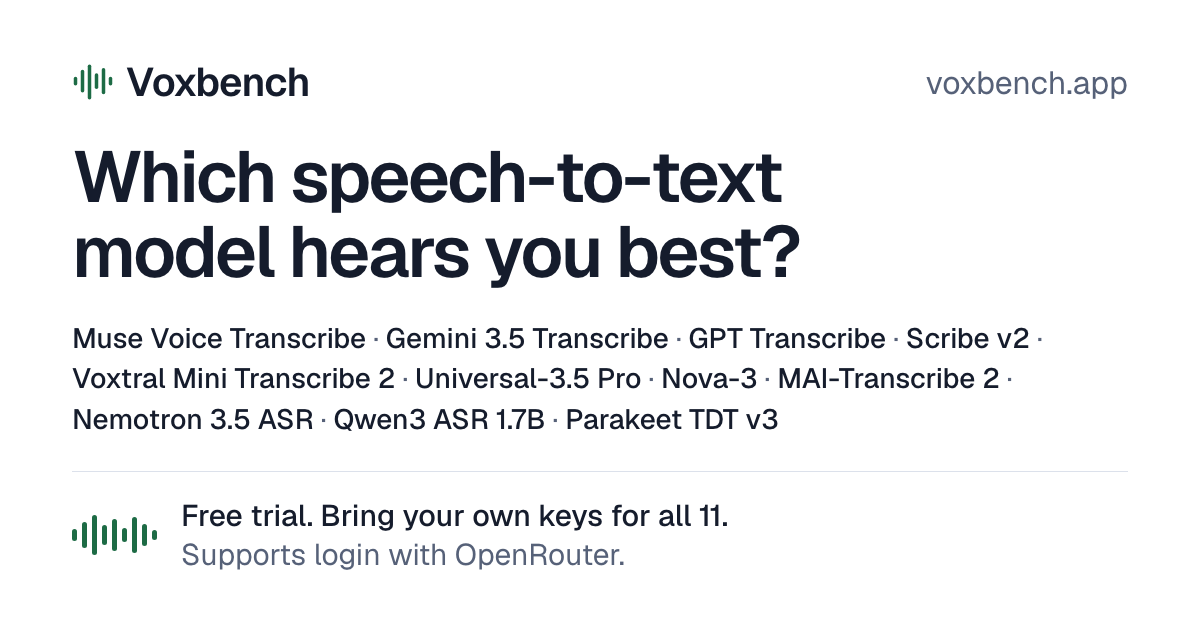
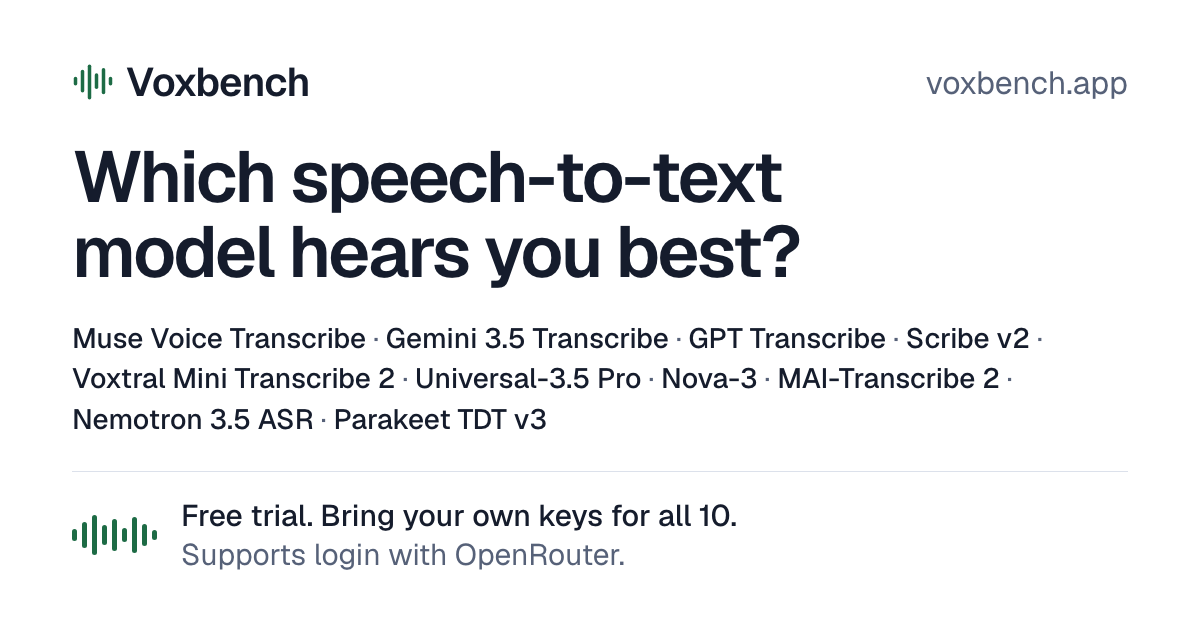
Remove Qwen; remember selected models and language settings

Changed region(s): [[0.2775, 0.6333, 0.6475, 0.6937], [0.5858, 0.7841, 0.6167, 0.8444]]

diff --git a/app/page.tsx b/app/page.tsx
@@ -24,6 +24,8 @@ import {
   mergeSavedKeys,
   VOCABULARY_STORAGE,
   saveVocabulary,
+  readSettings,
+  writeSettings,
 } from '@/lib/key-storage';
 import { DemoCheck } from '@/components/lab/demo-check';
 import { OpenRouterConnect } from '@/components/lab/openrouter-connect';
@@ -142,6 +144,21 @@ export default function Home() {
     [useVocabulary, setUseVocabulary] = useState(true),
     [english, setEnglish] = useState(true),
     [reference, setReference] = useState('');
+  const [settingsLoaded, setSettingsLoaded] = useState(false);
+  useEffect(() => {
+    const saved = readSettings(localStorage);
+    const known = new Set(models.map((m) => m.id));
+    if (saved.selected)
+      setSelected(saved.selected.filter((id) => known.has(id)));
+    if (saved.english !== undefined) setEnglish(saved.english);
+    if (saved.useVocabulary !== undefined)
+      setUseVocabulary(saved.useVocabulary);
+    setSettingsLoaded(true);
+  }, []);
+  useEffect(() => {
+    if (settingsLoaded)
+      writeSettings(localStorage, { selected, english, useVocabulary });
+  }, [settingsLoaded, selected, english, useVocabulary]);
   const [vocabularyStorageError, setVocabularyStorageError] = useState('');
   const [vocabularySaved, setVocabularySaved] = useState(false);
   useEffect(() => {
@@ -737,7 +754,7 @@ export default function Home() {
         <div>
           <h1>Which speech-to-text model hears you best?</h1>
           <p>
-            Record a take, read 11 transcripts side by side, and pick the one
+            Record a take, read 10 transcripts side by side, and pick the one
             that got you right. Free trial, your own keys, or log in with
             OpenRouter.
           </p>

diff --git a/scripts/og.html b/scripts/og.html
@@ -34,13 +34,13 @@
   </div>
   <h1>Which speech-to-text model hears you best?</h1>
   <p class="models">
-    <b>Muse Voice Transcribe</b> · <b>Gemini 3.5 Transcribe</b> · <b>GPT Transcribe</b> · <b>Scribe v2</b> · <b>Voxtral Mini Transcribe 2</b> · <b>Universal-3.5 Pro</b> · <b>Nova-3</b> · <b>MAI-Transcribe 2</b> · <b>Nemotron 3.5 ASR</b> · <b>Qwen3 ASR 1.7B</b> · <b>Parakeet TDT v3</b>
+    <b>Muse Voice Transcribe</b> · <b>Gemini 3.5 Transcribe</b> · <b>GPT Transcribe</b> · <b>Scribe v2</b> · <b>Voxtral Mini Transcribe 2</b> · <b>Universal-3.5 Pro</b> · <b>Nova-3</b> · <b>MAI-Transcribe 2</b> · <b>Nemotron 3.5 ASR</b> · <b>Parakeet TDT v3</b>
   </p>
   <div class="bottom">
     <div class="wave">
       <i style="height:12px"></i><i style="height:26px"></i><i style="height:40px"></i><i style="height:20px"></i><i style="height:32px"></i><i style="height:14px"></i><i style="height:36px"></i><i style="height:22px"></i><i style="height:10px"></i>
     </div>
-    <div class="tag">Free trial. Bring your own keys for all 11.<br><span>Supports login with OpenRouter.</span></div>
+    <div class="tag">Free trial. Bring your own keys for all 10.<br><span>Supports login with OpenRouter.</span></div>
   </div>
 </div>
 </body>

diff --git a/lib/key-storage.ts b/lib/key-storage.ts
@@ -58,3 +58,38 @@ export function saveVocabulary(
   if (storage.getItem(VOCABULARY_STORAGE) !== value)
     throw new Error('Storage verification failed.');
 }
+export const SETTINGS_STORAGE = 'voxbench-settings-v1';
+export type Settings = {
+  selected?: string[];
+  english?: boolean;
+  useVocabulary?: boolean;
+};
+export function readSettings(storage: Pick<Storage, 'getItem'>): Settings {
+  try {
+    const raw = JSON.parse(storage.getItem(SETTINGS_STORAGE) || '{}');
+    if (!raw || typeof raw !== 'object') return {};
+    const r = raw as Record<string, unknown>;
+    return {
+      ...(Array.isArray(r.selected) &&
+      r.selected.every((x) => typeof x === 'string')
+        ? { selected: r.selected as string[] }
+        : {}),
+      ...(typeof r.english === 'boolean' ? { english: r.english } : {}),
+      ...(typeof r.useVocabulary === 'boolean'
+        ? { useVocabulary: r.useVocabulary }
+        : {}),
+    };
+  } catch {
+    return {};
+  }
+}
+export function writeSettings(
+  storage: Pick<Storage, 'setItem'>,
+  settings: Settings,
+) {
+  try {
+    storage.setItem(SETTINGS_STORAGE, JSON.stringify(settings));
+  } catch {
+    /* Settings are a convenience; losing them is harmless. */
+  }
+}

diff --git a/app/layout.tsx b/app/layout.tsx
@@ -15,7 +15,7 @@ const geistMono = Geist_Mono({
 });
 
 const description =
-  'Record a take and read 11 speech-to-text transcripts side by side. Free trial, bring your own keys, or log in with OpenRouter.';
+  'Record a take and read 10 speech-to-text transcripts side by side. Free trial, bring your own keys, or log in with OpenRouter.';
 export const viewport: Viewport = { themeColor: '#1d6b45' };
 export const metadata: Metadata = {
   metadataBase: new URL('https://voxbench.app'),
@@ -32,7 +32,7 @@ export const metadata: Metadata = {
         url: '/og.png',
         width: 1200,
         height: 630,
-        alt: 'Voxbench: which speech-to-text model hears you best? Eleven models. Free trial, bring your own keys, or log in with OpenRouter.',
+        alt: 'Voxbench: which speech-to-text model hears you best? Ten models. Free trial, bring your own keys, or log in with OpenRouter.',
       },
     ],
   },

diff --git a/lib/models.ts b/lib/models.ts
@@ -104,15 +104,6 @@ export const models: Model[] = [
     docs: 'https://openrouter.ai/nvidia/nemotron-3.5-asr-streaming-multilingual-0.6b',
   },
   {
-    id: 'qwen',
-    name: 'Qwen3 ASR 1.7B',
-    maker: 'Qwen',
-    connection: 'openrouter',
-    model: 'qwen/qwen3-asr-1.7b',
-    vocabulary: 'Vocabulary unsupported',
-    docs: 'https://openrouter.ai/qwen/qwen3-asr-1.7b',
-  },
-  {
     id: 'parakeet',
     name: 'Parakeet TDT v3',
     maker: 'NVIDIA',
@@ -132,7 +123,7 @@ export const connections: {
     id: 'openrouter',
     name: 'OpenRouter',
     url: 'https://openrouter.ai/keys',
-    note: 'One balance for OpenAI, Mistral, Deepgram, Microsoft, NVIDIA and Qwen.',
+    note: 'One balance for OpenAI, Mistral, Deepgram, Microsoft and NVIDIA.',
   },
   {
     id: 'openai',
